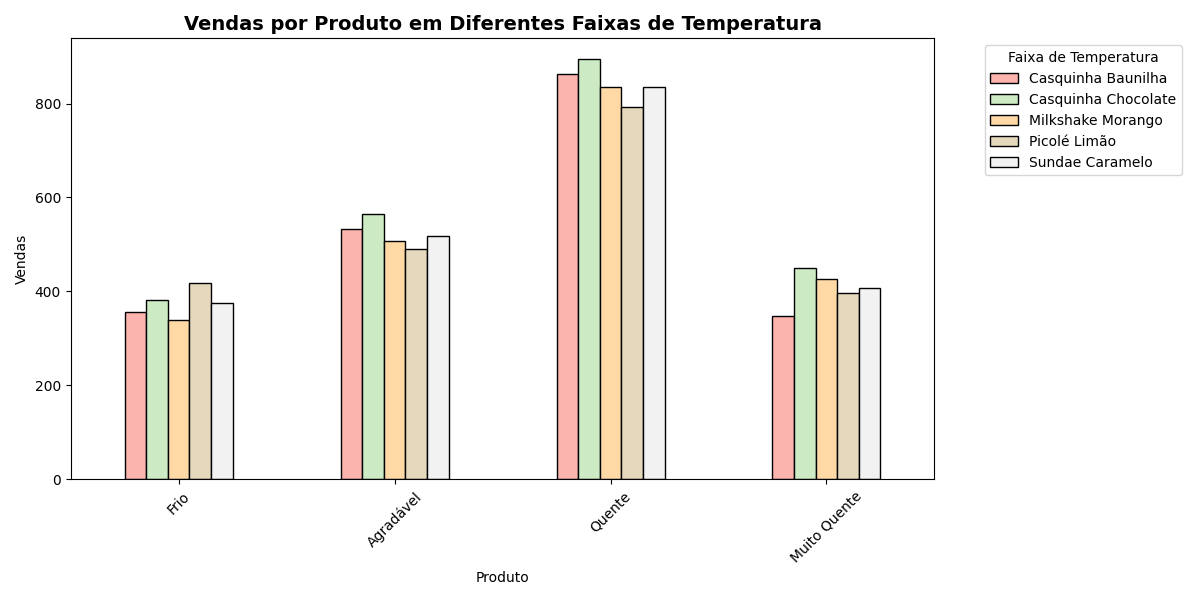
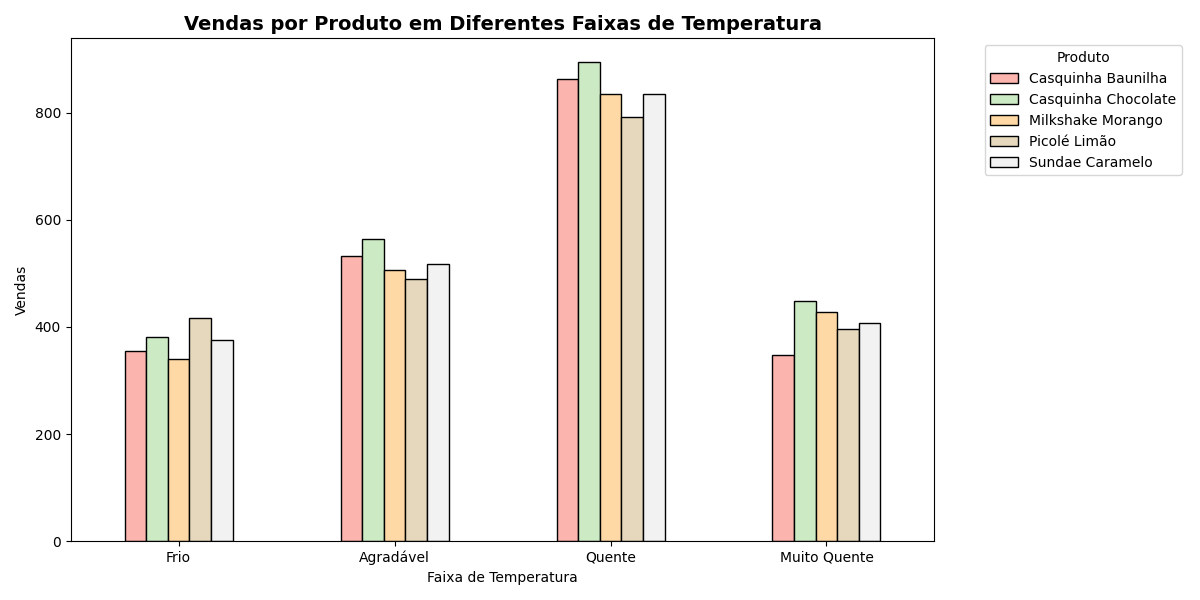
update

diff --git a/main.py b/main.py
@@ -3,8 +3,8 @@ import pandas as pd
 import matplotlib.pyplot as plt
 import seaborn as sns
 
-# Criar a pasta de saída
-output_dir = "resultados"
+# Criar a pasta de saída (na pasta atual)
+output_dir = os.path.join(os.path.dirname(__file__), "resultados")
 os.makedirs(output_dir, exist_ok=True)
 
 # Leitura dos arquivos
@@ -39,22 +39,21 @@ plt.xticks(fontsize=11)
 plt.yticks(fontsize=11)
 sns.despine()
 plt.tight_layout()
-plt.savefig("resultados/grafico1_vendas_linha_por_faixa_temp.png")
+plt.savefig(os.path.join(output_dir, "grafico1_vendas_linha_por_faixa_temp.png"))
 plt.close()
 
-# Gráfico 2 – Percentual por Produto
+# Gráfico 2 – Vendas por Produto em Faixas
 vendas_por_faixa = df_merged.groupby(["faixa_temp", "produto"], observed=False)["vendas"].sum().unstack().fillna(0)
 vendas_percentuais = vendas_por_faixa.div(vendas_por_faixa.sum(axis=1), axis=0) * 100
 
-plt.figure(figsize=(12, 6))
 vendas_por_faixa.plot(kind="bar", figsize=(12, 6), edgecolor="black", colormap="Pastel1")
 plt.title("Vendas por Produto em Diferentes Faixas de Temperatura", fontsize=14, weight="bold")
-plt.xlabel("Produto")
+plt.xlabel("Faixa de Temperatura")
 plt.ylabel("Vendas")
-plt.xticks(rotation=45)
-plt.legend(title="Faixa de Temperatura", bbox_to_anchor=(1.05, 1), loc="upper left")
+plt.xticks(rotation=0)
+plt.legend(title="Produto", bbox_to_anchor=(1.05, 1), loc="upper left")
 plt.tight_layout()
-plt.savefig("resultados/grafico2_produto_x_faixa_temp_agrupado.png")
+plt.savefig(os.path.join(output_dir, "grafico2_produto_x_faixa_temp_agrupado.png"))
 plt.close()
 
 # Gráfico 3 – Boxplot Cidade x Produto
@@ -64,7 +63,7 @@ plt.title("Distribuição de Vendas por Cidade e Produto")
 plt.xlabel("Cidade")
 plt.ylabel("Vendas")
 plt.tight_layout()
-plt.savefig(f"{output_dir}/grafico3_boxplot_vendas_cidade_produto.png")
+plt.savefig(os.path.join(output_dir, "grafico3_boxplot_vendas_cidade_produto.png"))
 plt.close()
 
 # Gráfico 4 – Vendas Totais por Produto em Cada Cidade
@@ -76,7 +75,7 @@ plt.xlabel("Cidade")
 plt.xticks(rotation=0)
 plt.legend(title="Produto", bbox_to_anchor=(1.05, 1), loc="upper left")
 plt.tight_layout()
-plt.savefig(f"{output_dir}/grafico4_vendas_produto_por_cidade.png")
+plt.savefig(os.path.join(output_dir, "grafico4_vendas_produto_por_cidade.png"))
 plt.close()
 
 # Gráfico 5 – Tendência Semanal por Produto
@@ -88,5 +87,5 @@ plt.ylabel("Vendas")
 plt.xticks(rotation=45)
 plt.legend(title="Produto", bbox_to_anchor=(1.05, 1), loc="upper left")
 plt.tight_layout()
-plt.savefig(f"{output_dir}/grafico5_tendencia_vendas_semana.png")
+plt.savefig(os.path.join(output_dir, "grafico5_tendencia_vendas_semana.png"))
 plt.close()
